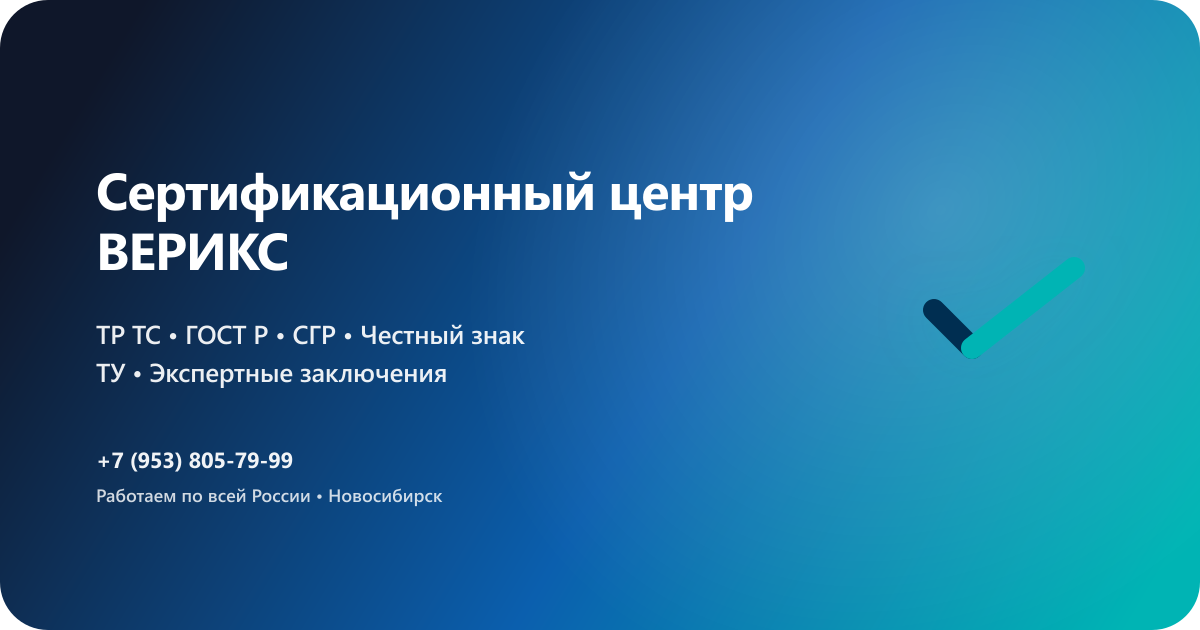
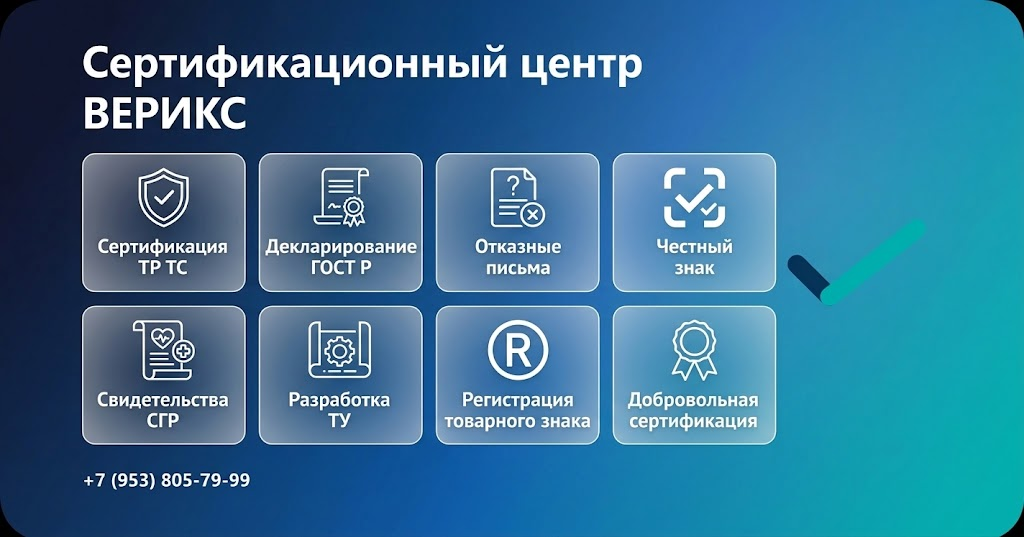
feat: declarations

diff --git a/src/components/ServiceGostR/constants.ts b/src/components/ServiceGostR/constants.ts
@@ -1,9 +1,13 @@
 export const SERVICE_GOST_R_SLUG = "services/deklarirovanie-gost-r";
 
 export const SERVICE_GOST_R_HERO = {
-  title: "Оформление декларации соответствия продукции стандартам ГОСТ Р под ключ",
+  title: "Декларация ГОСТ Р для маркетплейсов (Wildberries, Ozon)",
   lead: "Получите легальные разрешительные документы для законной реализации товаров, не попадающих под действие Технических регламентов ТС (ЕАЭС). Регистрация в Едином реестре ФСА (Росаккредитации). Без скрытых платежей.",
-  badges: ["Срок от 1 дня", "Бесплатная доставка оригиналов", "Строго по закону РФ"],
+  badges: [
+    "Срок от 1 дня",
+    "Бесплатная доставка оригиналов",
+    "Строго по закону РФ",
+  ],
   ctaPrimary: "Рассчитать стоимость",
   ctaSecondary: "Получить консультацию",
 } as const;
@@ -12,21 +16,41 @@ export const SERVICE_GOST_R_ABOUT = {
   tag: "Национальные стандарты",
   title: "Декларация ГОСТ Р для торговли на российских маркетплейсах",
   text: "Если ваша продукция не подпадает под действие Технических регламентов ТР ТС, но подлежит обязательному подтверждению качества по национальным стандартам РФ, мы оформим декларацию ГОСТ Р. Документ вносится в официальный реестр Росаккредитации и принимается службами контроля качества Wildberries и Ozon для бесперебойных продаж.\n\nДекларирование в системе ГОСТ Р подтверждает, что продукция соответствует национальным стандартам безопасности Российской Федерации. Этот документ требуется для товаров, которые <strong>не</strong> включены в единые перечни Технических регламентов ТС (ЕАЭС).",
-  text2: "Декларация ГОСТ Р обязательна для реализации товаров на Wildberries, Ozon и ввоза через таможню РФ. Без неё деятельность нелегальна и влечет штрафы и блокировки.",
+  text2:
+    "Декларация ГОСТ Р обязательна для реализации товаров на Wildberries, Ozon и ввоза через таможню РФ. Без неё деятельность нелегальна и влечет штрафы и блокировки.",
   categories: [
-    { title: "Строительные материалы", text: "Цемент, бетон, кирпич, утеплители, кровельные материалы — ГОСТ Р на соответствие национальным стандартам." },
-    { title: "Мебель и товары для дома", text: "Корпусная мебель, мягкая мебель, матрасы, посуда, текстиль — декларация по ГОСТ Р для розницы и маркетплейсов." },
-    { title: "Продукция легкой промышленности", text: "Текстиль, трикотаж, обувь отдельных категорий, не входящих в ТР ТС 007/2011." },
-    { title: "Пищевые продукты отдельных групп", text: "Кондитерские изделия, хлебобулочные изделия, мясные консервы — декларирование по актуальным перечням №2425." },
-    { title: "Бытовая химия и косметика", text: "Средства для ухода, бытовые моющие средства — при отсутствии ТР ТС на данную номенклатуру." },
-    { title: "Прочая промышленная продукция", text: "Любые товары из Постановления Правительства РФ №2425, не подпадающие под действие Техрегламентов ЕАЭС." },
+    {
+      title: "Строительные материалы",
+      text: "Цемент, бетон, кирпич, утеплители, кровельные материалы — ГОСТ Р на соответствие национальным стандартам.",
+    },
+    {
+      title: "Мебель и товары для дома",
+      text: "Корпусная мебель, мягкая мебель, матрасы, посуда, текстиль — декларация по ГОСТ Р для розницы и маркетплейсов.",
+    },
+    {
+      title: "Продукция легкой промышленности",
+      text: "Текстиль, трикотаж, обувь отдельных категорий, не входящих в ТР ТС 007/2011.",
+    },
+    {
+      title: "Пищевые продукты отдельных групп",
+      text: "Кондитерские изделия, хлебобулочные изделия, мясные консервы — декларирование по актуальным перечням №2425.",
+    },
+    {
+      title: "Бытовая химия и косметика",
+      text: "Средства для ухода, бытовые моющие средства — при отсутствии ТР ТС на данную номенклатуру.",
+    },
+    {
+      title: "Прочая промышленная продукция",
+      text: "Любые товары из Постановления Правительства РФ №2425, не подпадающие под действие Техрегламентов ЕАЭС.",
+    },
   ],
 } as const;
 
 export const SERVICE_GOST_R_DOC_TYPES = {
   tag: "Экспертный подбор",
   title: "Какой документ ГОСТ Р нужен на вашу продукцию?",
-  subtitle: "Тип документа зависит от кода ТН ВЭД, категории товара и схемы оценки соответствия. Мы подберём его бесплатно до начала работы.",
+  subtitle:
+    "Тип документа зависит от кода ТН ВЭД, категории товара и схемы оценки соответствия. Мы подберём его бесплатно до начала работы.",
   items: [
     {
       title: "Декларация соответствия ГОСТ Р",
@@ -44,12 +68,37 @@ export const SERVICE_GOST_R_PRICING = {
   tag: "Прозрачные условия",
   title: "Стоимость и сроки оформления декларации ГОСТ Р",
   note: "Внимание: окончательная стоимость и сроки зависят от типа продукции, выбранной схемы декларирования и количества протоколов испытаний.",
-  columns: ["Услуга", "Сроки оформления", "Количество товаров в 1 документе", "Стоимость"],
+  columns: [
+    "Услуга",
+    "Сроки оформления",
+    "Количество товаров в 1 документе",
+    "Стоимость",
+  ],
   rows: [
-    { service: "Декларация ГОСТ Р (РФ)", term: "от 1 рабочего дня", quantity: "Индивидуально", price: "от 10 000 ₽" },
-    { service: "Декларация ГОСТ Р (импорт)", term: "от 2 рабочих дней", quantity: "Индивидуально", price: "от 15 000 ₽" },
-    { service: "Протоколы испытаний (аккредитованная лаборатория)", term: "от 2 рабочих дней", quantity: "—", price: "от 7 000 ₽" },
-    { service: "Подбор кода ТН ВЭД и типа документа", term: "в день обращения", quantity: "—", price: "бесплатно" },
+    {
+      service: "Декларация ГОСТ Р (РФ)",
+      term: "от 1 рабочего дня",
+      quantity: "Индивидуально",
+      price: "от 10 000 ₽",
+    },
+    {
+      service: "Декларация ГОСТ Р (импорт)",
+      term: "от 2 рабочих дней",
+      quantity: "Индивидуально",
+      price: "от 15 000 ₽",
+    },
+    {
+      service: "Протоколы испытаний (аккредитованная лаборатория)",
+      term: "от 2 рабочих дней",
+      quantity: "—",
+      price: "от 7 000 ₽",
+    },
+    {
+      service: "Подбор кода ТН ВЭД и типа документа",
+      term: "в день обращения",
+      quantity: "—",
+      price: "бесплатно",
+    },
   ],
 } as const;
 
@@ -57,10 +106,22 @@ export const SERVICE_GOST_R_PROCESS = {
   tag: "Порядок работы",
   title: "Как мы работаем",
   steps: [
-    { title: "Аудит продукции", text: "Определяем код ТН ВЭД, применимость ГОСТ Р и схему декларирования (1д, 2д, 3д, 4д, 6д)." },
-    { title: "Сбор документов", text: "Предоставляем шаблоны и чек-лист. Помогаем собрать пакет под вашу схему декларирования." },
-    { title: "Лабораторные испытания", text: "Организуем испытания в аккредитованной лаборатории, если требуются по схеме или для подтверждения свойств." },
-    { title: "Регистрация в реестре ФСА", text: "Оформляем декларацию, вносим в Единый реестр ФСА и передаём вам оригиналы с бесплатной доставкой." },
+    {
+      title: "Аудит продукции",
+      text: "Определяем код ТН ВЭД, применимость ГОСТ Р и схему декларирования (1д, 2д, 3д, 4д, 6д).",
+    },
+    {
+      title: "Сбор документов",
+      text: "Предоставляем шаблоны и чек-лист. Помогаем собрать пакет под вашу схему декларирования.",
+    },
+    {
+      title: "Лабораторные испытания",
+      text: "Организуем испытания в аккредитованной лаборатории, если требуются по схеме или для подтверждения свойств.",
+    },
+    {
+      title: "Регистрация в реестре ФСА",
+      text: "Оформляем декларацию, вносим в Единый реестр ФСА и передаём вам оригиналы с бесплатной доставкой.",
+    },
   ],
   docsTitle: "Что потребуется от вас?",
   docs: [
@@ -78,27 +139,34 @@ export const SERVICE_GOST_R_FAQ = {
   items: [
     {
       question: "Можно ли оформить декларацию ГОСТ Р на самозанятого?",
-      answer: "Нет. Заявителем при оценке соответствия ГОСТ Р может быть только индивидуальный предприниматель (ИП) или юридическое лицо (ООО), зарегистрированное на территории РФ. Это обязательное требование для выгрузки в реестр ФСА. Самозанятые могут оформлять только отказные письма.",
+      answer:
+        "Нет. Заявителем при оценке соответствия ГОСТ Р может быть только индивидуальный предприниматель (ИП) или юридическое лицо (ООО), зарегистрированное на территории РФ. Это обязательное требование для выгрузки в реестр ФСА. Самозанятые могут оформлять только отказные письма.",
     },
     {
       question: "Чем декларация ГОСТ Р отличается от декларации ТР ТС?",
-      answer: "Разница в территории действия. Декларация ГОСТ Р подтверждает соответствие <strong>национальным стандартам РФ</strong> и действует только в России. Декларация ТР ТС подтверждает соответствие <strong>единым техническим регламентам</strong> Таможенного союза и действует на всей территории ЕАЭС.",
+      answer:
+        "Разница в территории действия. Декларация ГОСТ Р подтверждает соответствие <strong>национальным стандартам РФ</strong> и действует только в России. Декларация ТР ТС подтверждает соответствие <strong>единым техническим регламентам</strong> Таможенного союза и действует на всей территории ЕАЭС.",
     },
     {
       question: "На какой срок выдается декларация ГОСТ Р?",
-      answer: "Срок действия зависит от схемы декларирования. Для продукции серийного выпуска декларация оформляется на срок до 3 лет, иногда до 5 лет. На партию товара документ выдается бессрочно — он действует до момента полной реализации этой партии.",
+      answer:
+        "Срок действия зависит от схемы декларирования. Для продукции серийного выпуска декларация оформляется на срок до 3 лет, иногда до 5 лет. На партию товара документ выдается бессрочно — он действует до момента полной реализации этой партии.",
     },
     {
       question: "Нужно ли маркировать товар перед ГОСТ Р Честным знаком?",
-      answer: "Нет. Декларация ГОСТ Р — это обязательный разрешительный документ. Сначала вы оформляете декларацию, вносите её данные в Единый реестр ФСА, и только после этого вы сможете ввести товар в оборот и промаркировать его в национальной системе «Честный знак».",
+      answer:
+        "Нет. Декларация ГОСТ Р — это обязательный разрешительный документ. Сначала вы оформляете декларацию, вносите её данные в Единый реестр ФСА, и только после этого вы сможете ввести товар в оборот и промаркировать его в национальной системе «Честный знак».",
     },
     {
-      question: "Подойдёт ли декларация ГОСТ Р для Яндекс Маркета и Wildberries?",
-      answer: "Да. Декларация соответствия ГОСТ Р, зарегистрированная в Едином реестре ФСА, принимается всеми крупными маркетплейсами (Wildberries, Ozon, Яндекс Маркет) при модерации карточек товаров, если товар попадает под национальную систему подтверждения соответствия.",
+      question:
+        "Подойдёт ли декларация ГОСТ Р для Яндекс Маркета и Wildberries?",
+      answer:
+        "Да. Декларация соответствия ГОСТ Р, зарегистрированная в Едином реестре ФСА, принимается всеми крупными маркетплейсами (Wildberries, Ozon, Яндекс Маркет) при модерации карточек товаров, если товар попадает под национальную систему подтверждения соответствия.",
     },
     {
       question: "Можно ли оформить одну декларацию на несколько товаров?",
-      answer: "Да, если товары относятся к одной группе однородной продукции, имеют одинаковый код ОКПД2/ТН ВЭД и применяются одни и те же стандарты. Количество позиций в одном документе влияет на стоимость — уточняем при расчёте.",
+      answer:
+        "Да, если товары относятся к одной группе однородной продукции, имеют одинаковый код ОКПД2/ТН ВЭД и применяются одни и те же стандарты. Количество позиций в одном документе влияет на стоимость — уточняем при расчёте.",
     },
   ],
 } as const;
@@ -114,6 +182,8 @@ export const SERVICE_GOST_R_LEAD = {
 } as const;
 
 export const SERVICE_GOST_R_META = {
-  title: "Оформление декларации соответствия ГОСТ Р под ключ в Новосибирске и РФ | Цены от 10 000 руб.",
-  description: "Декларирование продукции по национальным стандартам ГОСТ Р. Полный цикл оформления под ключ: подбор кодов ТН ВЭД, испытания в аккредитованных лабораториях, выгрузка в Единый реестр ФСА. Документы для маркетплейсов и таможни. Работаем по всей России.",
+  title:
+    "Оформление декларации соответствия ГОСТ Р под ключ в Новосибирске и РФ | Цены от 10 000 руб.",
+  description:
+    "Декларирование продукции по национальным стандартам ГОСТ Р. Полный цикл оформления под ключ: подбор кодов ТН ВЭД, испытания в аккредитованных лабораториях, выгрузка в Единый реестр ФСА. Документы для маркетплейсов и таможни. Работаем по всей России.",
 } as const;

diff --git a/src/components/ServiceGostR/ServiceGostRPricing.tsx b/src/components/ServiceGostR/ServiceGostRPricing.tsx
@@ -1,9 +1,26 @@
 import { SERVICE_GOST_R_PRICING } from "./constants";
 import { ServiceSection } from "./ServiceSection";
-
 import styles from "./ServiceGostRPricing.module.scss";
 
 export function ServiceGostRPricing() {
+  const jsonLd = {
+    "@context": "https://schema.org",
+    "@type": "Product",
+    name: "Декларация ГОСТ Р",
+    description: "Оформление декларации соответствия ГОСТ Р для маркетплейсов",
+    offers: {
+      "@type": "AggregateOffer",
+      priceCurrency: "RUB",
+      offerCount: SERVICE_GOST_R_PRICING.rows.length,
+      offers: SERVICE_GOST_R_PRICING.rows.map((row) => ({
+        "@type": "Offer",
+        name: row.service,
+        price: row.price.replace(/\D/g, "") || "0",
+        priceCurrency: "RUB",
+      })),
+    },
+  };
+
   return (
     <ServiceSection
       id="service-gost-r-pricing"
@@ -11,15 +28,22 @@ export function ServiceGostRPricing() {
       title={SERVICE_GOST_R_PRICING.title}
       variant="muted"
     >
+      <script
+        type="application/ld+json"
+        dangerouslySetInnerHTML={{ __html: JSON.stringify(jsonLd) }}
+      />
       <div className={styles.pricing__tableWrap}>
         <table className={styles.pricing__table}>
           <caption className={styles.pricing__caption}>
-            Актуальные сроки и ориентировочная стоимость услуг по декларированию ГОСТ Р
+            Актуальные сроки и ориентировочная стоимость услуг по декларированию
+            ГОСТ Р
           </caption>
           <thead>
             <tr>
               {SERVICE_GOST_R_PRICING.columns.map((col) => (
-                <th key={col} scope="col">{col}</th>
+                <th key={col} scope="col">
+                  {col}
+                </th>
               ))}
             </tr>
           </thead>
@@ -35,7 +59,6 @@ export function ServiceGostRPricing() {
           </tbody>
         </table>
       </div>
-
       <p className={styles.pricing__note}>{SERVICE_GOST_R_PRICING.note}</p>
     </ServiceSection>
   );

diff --git a/src/components/ServiceGostR/ServiceGostRFaq.tsx b/src/components/ServiceGostR/ServiceGostRFaq.tsx
@@ -1,9 +1,21 @@
 import { SERVICE_GOST_R_FAQ } from "./constants";
 import { ServiceSection } from "./ServiceSection";
-
 import styles from "./ServiceGostRFaq.module.scss";
 
 export function ServiceGostRFaq() {
+  const jsonLd = {
+    "@context": "https://schema.org",
+    "@type": "FAQPage",
+    mainEntity: SERVICE_GOST_R_FAQ.items.map((item) => ({
+      "@type": "Question",
+      name: item.question,
+      acceptedAnswer: {
+        "@type": "Answer",
+        text: item.answer, 
+      },
+    })),
+  };
+
   return (
     <ServiceSection
       id="service-gost-r-faq"
@@ -11,11 +23,18 @@ export function ServiceGostRFaq() {
       title={SERVICE_GOST_R_FAQ.title}
       variant="muted"
     >
+      <script
+        type="application/ld+json"
+        dangerouslySetInnerHTML={{ __html: JSON.stringify(jsonLd) }}
+      />
       <div className={styles.faq__list}>
         {SERVICE_GOST_R_FAQ.items.map((item) => (
           <details key={item.question} className={styles.faq__item}>
             <summary className={styles.faq__question}>{item.question}</summary>
-            <p className={styles.faq__answer} dangerouslySetInnerHTML={{ __html: item.answer }} />
+            <p
+              className={styles.faq__answer}
+              dangerouslySetInnerHTML={{ __html: item.answer }}
+            />
           </details>
         ))}
       </div>
